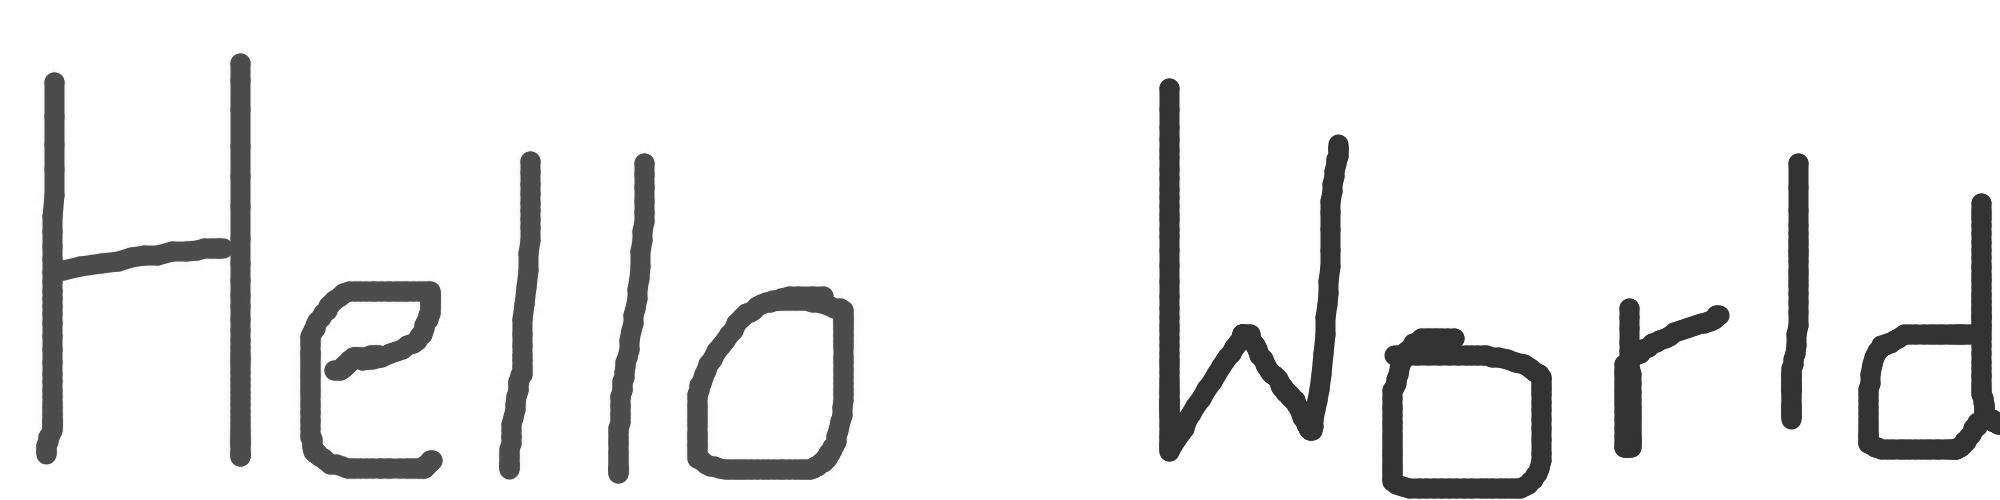
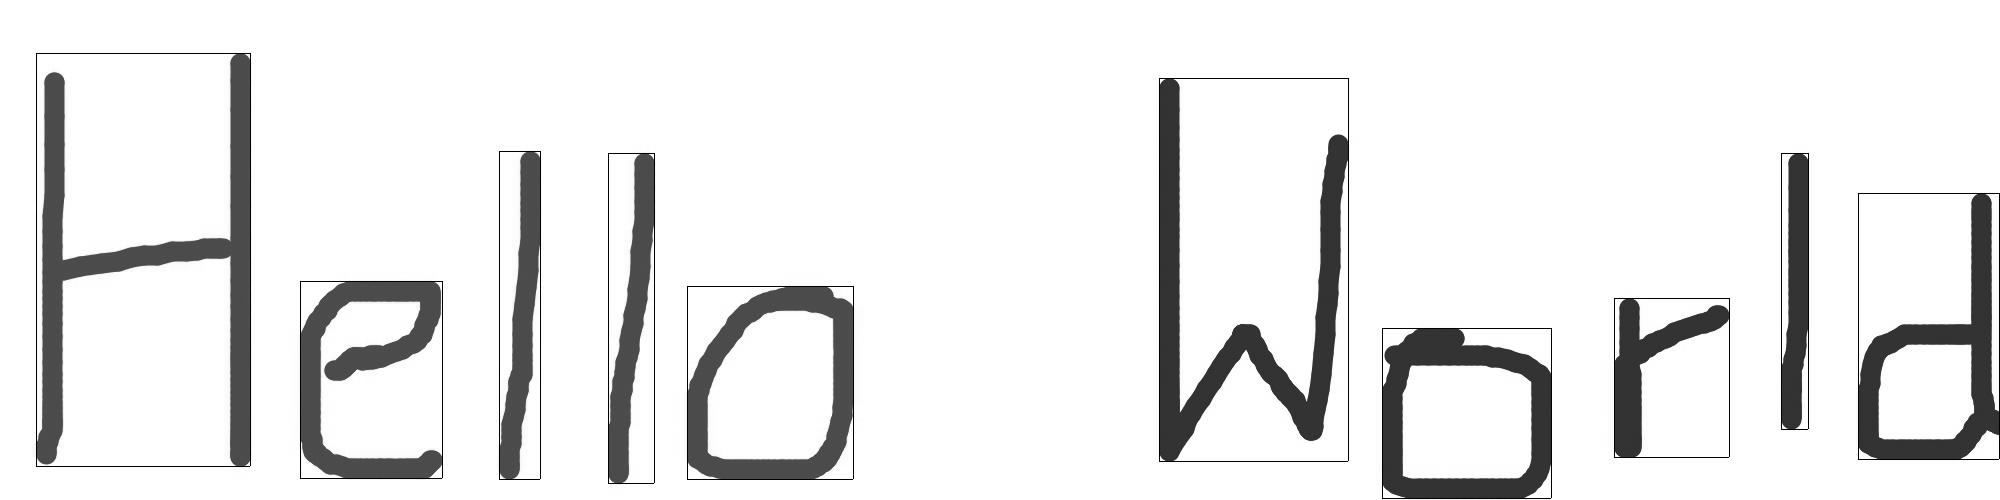
Segementation - crop images and add to folder crop

Changed region(s): [[0.682, 0.99, 0.775, 1.0]]

diff --git a/segementation/detect.py b/segementation/detect.py
@@ -1,6 +1,7 @@
 #!/usr/bin/python3
 import sys
 from PIL import Image
+import os
 
 if len(sys.argv)!=2:
     print('Usage: ./detect.py imageName')
@@ -44,9 +45,11 @@ for i in range(im.size[0]):
     if vbound[i]==1:
         for j in range(im.size[1]):
             ver.putpixel( (i,j) , (255,0,0) )
+#            gray.putpixel( (i,j) , (0) )
     if vbound[i]==2:
         for j in range(im.size[1]):
             ver.putpixel( (i,j) , (0,0,255) )
+#            gray.putpixel( (i,j) , (0) )
 
 #create lists to identify start and end of words
 start = []
@@ -58,7 +61,7 @@ for i in range(len(vbound)):
         start.append(i)
 del vbound
 if len(start)!=len(end):
-    print('incorrect border cases')
+    print('incorrect border cases (start,end)')
     sys.exit()
 
 #count number of words and print
@@ -106,7 +109,65 @@ for i in range(words+spaces):
 sentence[spPos] = ' '
 print(sentence)
 
+#find horizontal lines per word
+up=[]
+down=[]
+for i in range(len(start)):
+    flagUp = False
+    flagDown = False
+    for k in range(im.size[1]):
+        for j in range(start[i],end[i]+1):
+            if gray.getpixel((j,k)) <= 200:
+                flagUp = k
+            if flagUp!=False:
+                break
+        if flagUp!=False:
+            break
+    for k in reversed(range(im.size[1])):
+        for j in range(start[i],end[i]+1):
+            if gray.getpixel((j,k)) <= 200:
+                flagDown = k
+            if flagDown!=False:
+                break
+        if flagDown!=False:
+            break
+    up.append(flagUp)
+    down.append(flagDown)
+
+#error checking
+if len(up)!=len(down):
+    print('border error (up,dow)')
+    sys.exit()
+if len(up)!=len(start):
+    print('border error (up,start)')
+    sys.exit()
+
+#add horizontal and vertical bars to gray.jpg
+#horizontal
+for i in range(len(up)):
+    for k in range(start[i],end[i]):
+        gray.putpixel((k,up[i]),0)
+        gray.putpixel((k,down[i]),0)
+#vertical
+for i in range(len(start)):
+    for k in range(up[i],down[i]):
+        gray.putpixel((start[i],k),0)
+        gray.putpixel((end[i],k),0)
+
+#create folder crop and change dir to crop
+path = os.path.abspath('.')
+newPath = path + '/crop'
+if not os.path.exists(newPath):
+    os.makedirs(newPath)
+os.chdir(newPath)
+
+#add cropped images to crop
+for i in range(len(start)):
+    temp = gray.crop((start[i],up[i],end[i]+1,down[i]+1))
+    name = str(i) + '.jpg'
+    temp.save(name)
+
 #save for viewing and debugging
-hor.save('hor.jpg')
-ver.save('ver.jpg')
+os.chdir(path)
+im.save('test.jpg')
 gray.save('gray.jpg')
